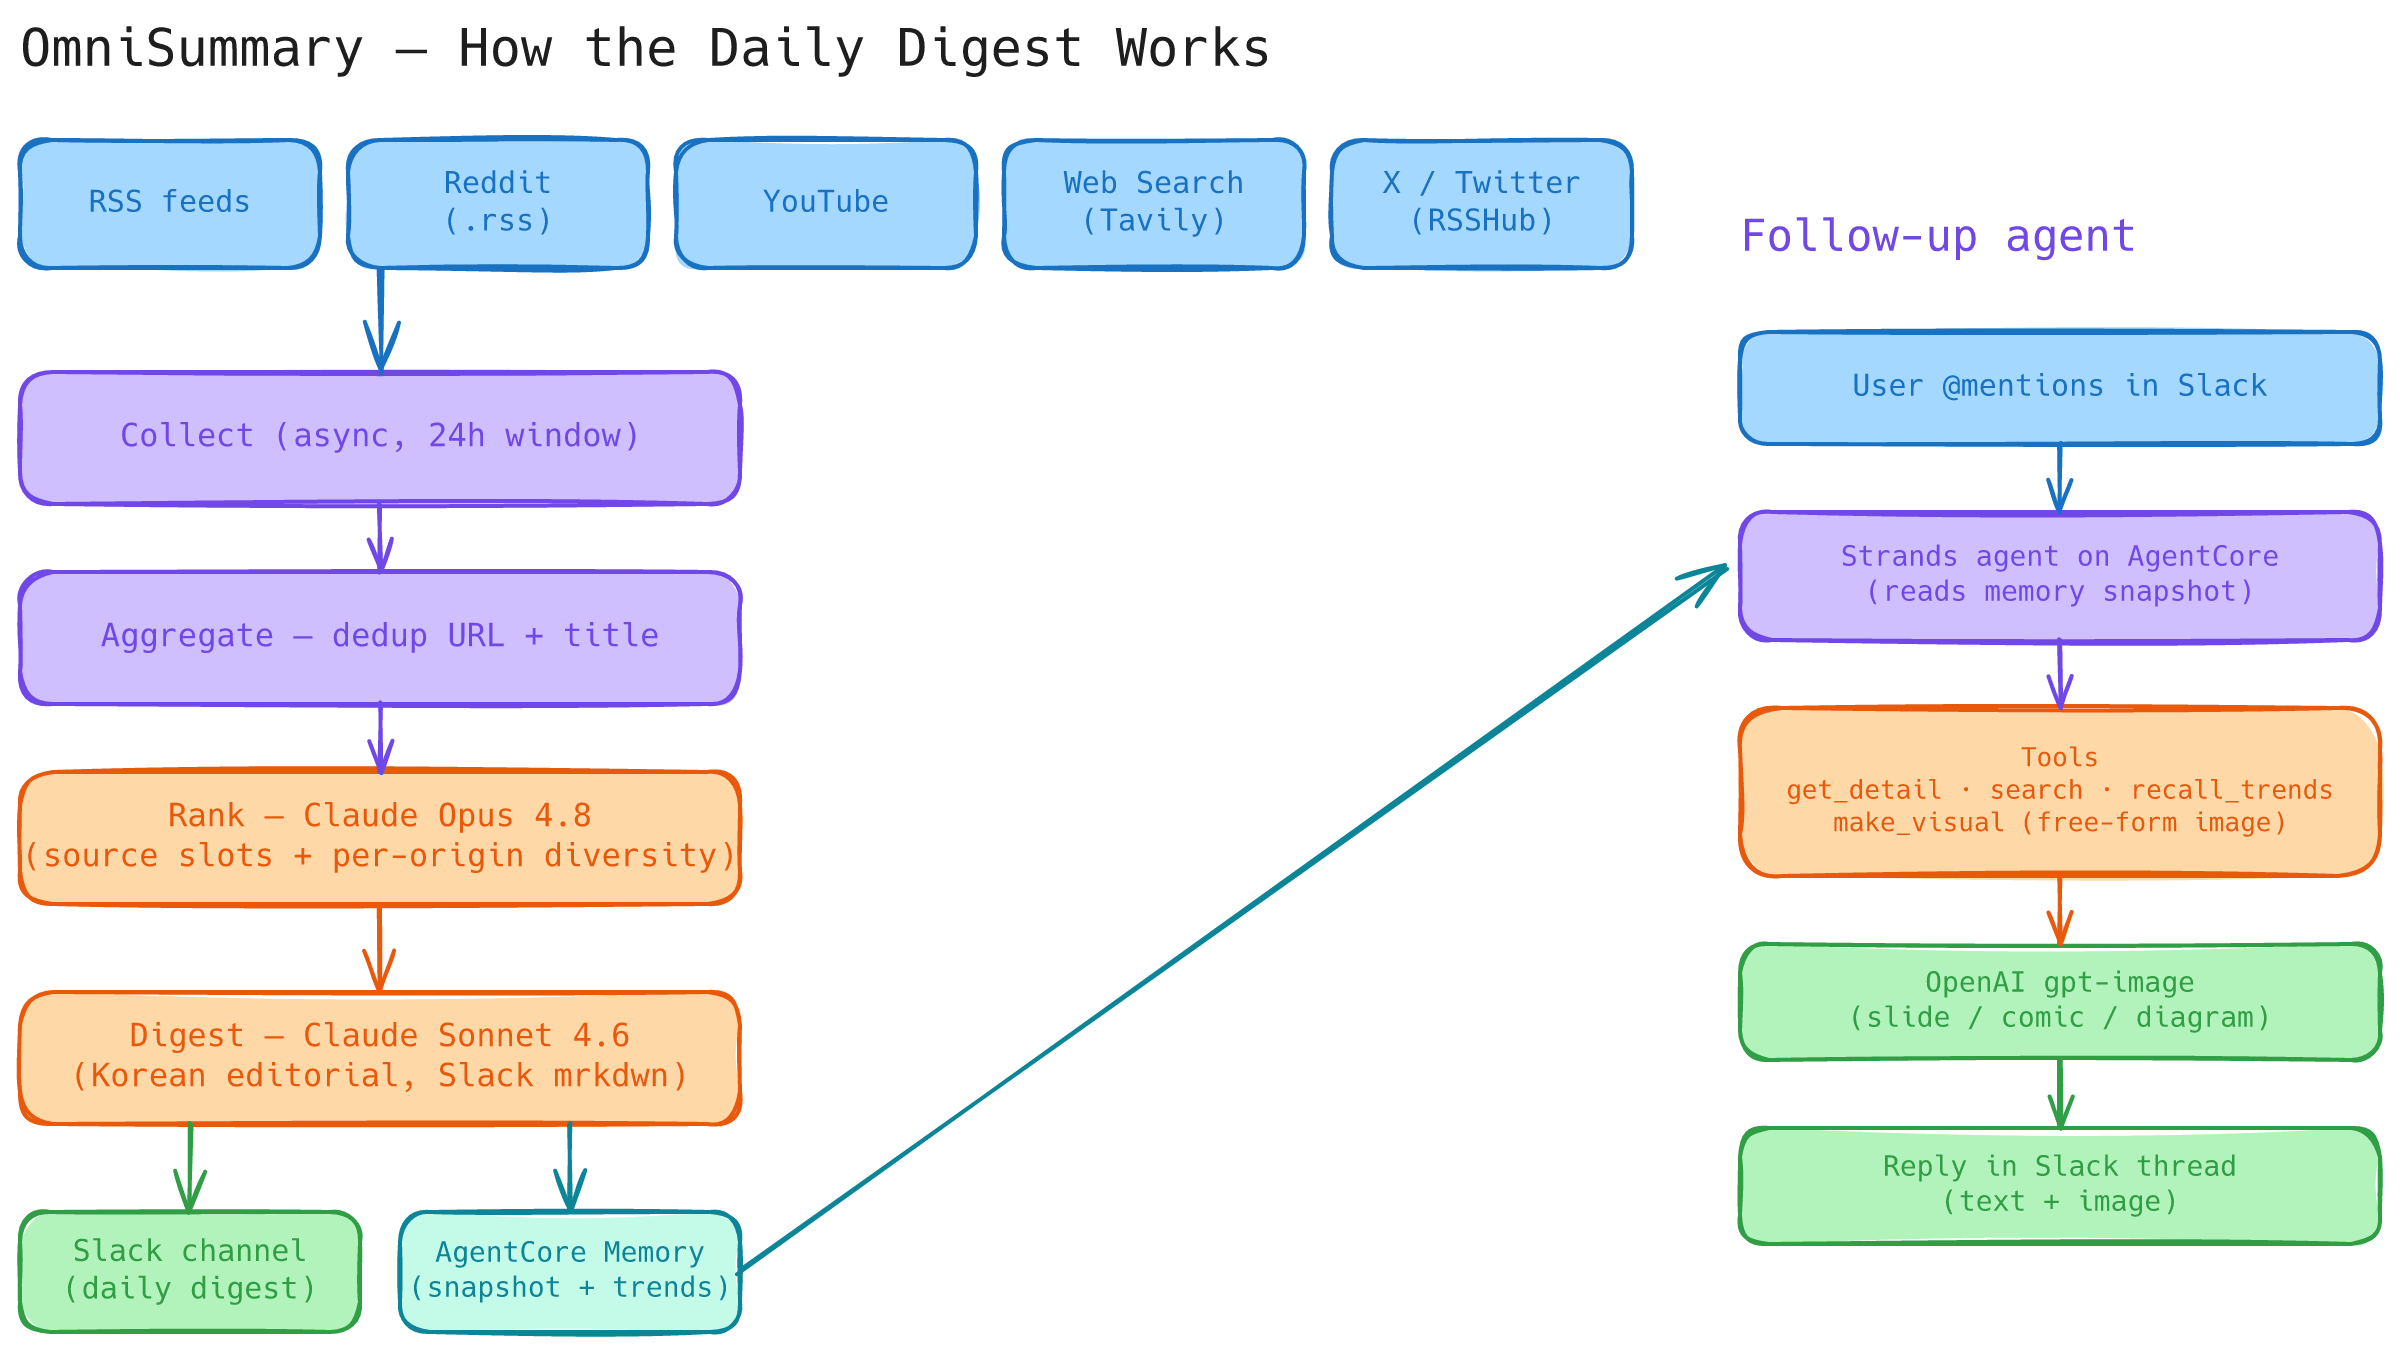
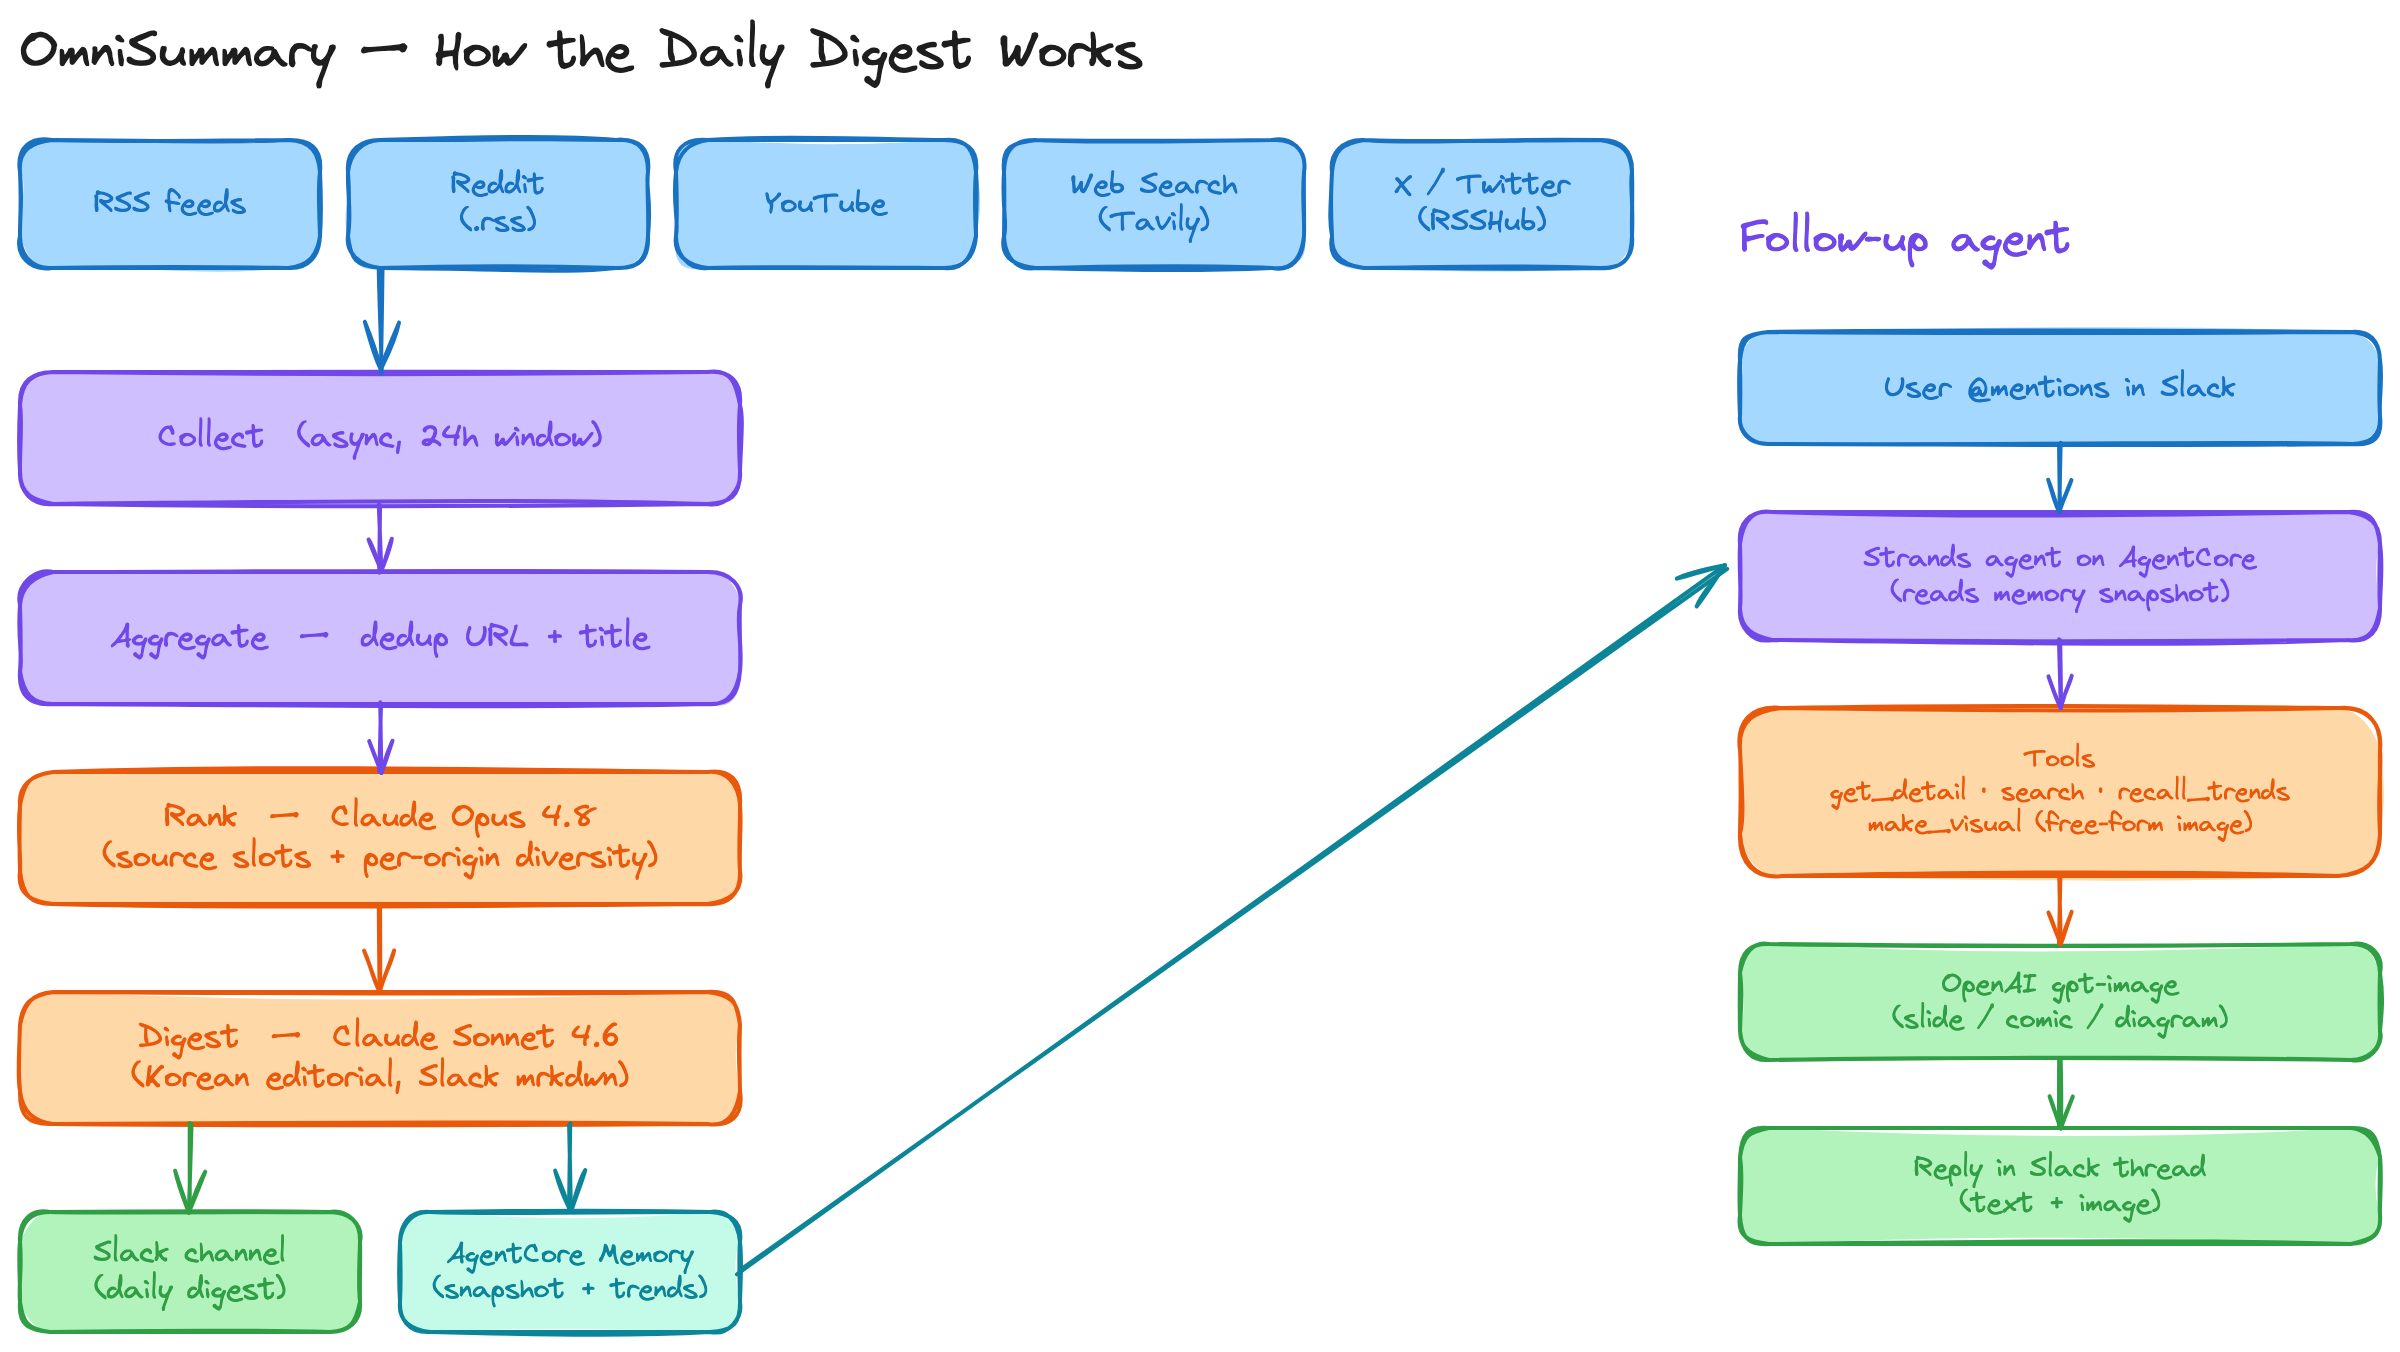
Fix concept diagram: render hand-drawn (Virgil) font, not sans-serif fallback
The committed concept-pipeline.png was sans-serif: excalidraw-to-png rasterizes
via resvg, which ignores the Virgil woff2 that Excalidraw embeds in the SVG as an
@user data: URL (and the system Virgil-Regular.ttf has an unreadable name
table, so the family lookup also fails) — so it fell back to a plain font.

Add scripts/render_excalidraw.mjs: export the font-embedded SVG, then screenshot
it in a headless browser, which honors the embedded font and matches the Excalidraw
app output. Re-render the PNG; drop the now-inaccurate resvg/Virgil doc line.

diff --git a/scripts/gen_diagrams.py b/scripts/gen_diagrams.py
@@ -1,9 +1,12 @@
 #!/usr/bin/env python3
-"""Generate the Excalidraw architecture + concept diagrams (hand-drawn style).
+"""Generate the Excalidraw concept diagram (hand-drawn style).
 
 Render with:
-  excalidraw-to-png assets/<name>.excalidraw <name>.svg --svg
-  (then resvg with fontDirs=~/Library/Fonts, defaultFontFamily=Virgil)
+  node scripts/render_excalidraw.mjs assets/concept-pipeline.excalidraw assets/concept-pipeline.png
+
+(render_excalidraw.mjs screenshots the font-embedded SVG in a headless browser so the
+hand-drawn Virgil font is preserved; the plain `excalidraw-to-png` PNG path rasterizes
+via resvg, which drops the embedded font and falls back to sans-serif.)
 """
 
 import json

diff --git a/assets/tech-doc.md b/assets/tech-doc.md
@@ -28,8 +28,7 @@ Runtime 위의 Strands)는 다이제스트 항목에 대한 질문에 답하고 
    → AgentCore Memory에서 다이제스트 상태를 읽고, Slack에 답변/이미지를 게시
 ```
 
-파이프라인 개념도(수집 → 랭킹 → 다이제스트 → 전달, 후속 에이전트 루프) — Excalidraw 손글씨 스타일
-(`assets/concept-pipeline.excalidraw`, `excalidraw-to-png` + resvg/Virgil로 렌더):
+파이프라인 개념도(수집 → 랭킹 → 다이제스트 → 전달, 후속 에이전트 루프):
 
 ![How the digest works](concept-pipeline.png)
 